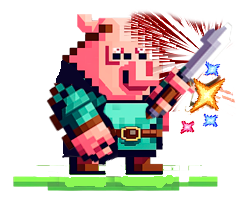
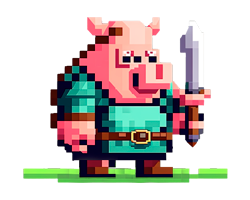
Update some battle stuff and add README

diff --git a/static/js/script_battle.js b/static/js/script_battle.js
@@ -177,7 +177,7 @@ window.addEventListener('load', function(){
             document.getElementById("swing").style.display = 'none';
             document.getElementById("pig_swing").style.display = 'none';
         }
-        attack() {
+        attack() {  // STR based attack
             // Determine players max possible damage output
             var damageDealt = this.strength * 10;
             let plusOrMinus = Math.random();
@@ -196,7 +196,7 @@ window.addEventListener('load', function(){
         
         }
         
-        stab_attack() {
+        stab_attack() { // DEX based attack
             // Determine players max possible damage output
             var damageDealt = this.dex * 10;
             let plusOrMinus = Math.random();
@@ -204,10 +204,10 @@ window.addEventListener('load', function(){
                 damageDealt = damageDealt * 1.1;
             } else if (plusOrMinus < 0.5 && plusOrMinus > 0.1) {
                 damageDealt = damageDealt * 0.9;
-            } else if (plusOrMinus <= 0.1) {
+            } else if (plusOrMinus <= (0.1 + 0.02 * (this.dex - 3))) {
                 damageDealt = damageDealt * 2;
                 critChecker = true;
-            } else if (plusOrMinus > 0.1 && plusOrMinus <= 0.2) {
+            } else if (plusOrMinus > (0.1 + 0.02 * (this.dex - 3)) && plusOrMinus <= 0.2) {
                 damageDealt = 0;
                 missChecker = true;
             }

diff --git a/static/css/main.css b/static/css/main.css
@@ -76,7 +76,7 @@ body{
     border: 5px solid white;
 }
 
-#playerImg, #backgroundImg, #enemyImg, #midgroundImg, #enemyDeadImg, #attkBtn, #pTurnImg, #eTurnImg, #winImg, #fight {
+#playerImg, #backgroundImg, #enemyImg, #midgroundImg, #enemyDeadImg, #attkBtn, #pTurnImg, #eTurnImg, #winImg, #fight, #pig_swing, #pig_stab, #pig_dodge, #swing {
     display: none;
 }
 

diff --git a/README.md b/README.md
@@ -1,0 +1,38 @@
+# CS4483 Game Demo
+Farmed and Dangerous: You're a pig, your goal is to kill stuff and get stronger.
+## Running the game
+This is a web-based game, so there's no single executable file to run. The game should should be available to play at http://0042069.xyz.  
+- If the site doesn't load, make sure you're using **HTTP and not HTTPS!** I didn't want to go through the hassle of setting up a certificate for a site that would be used for like a week lol
+
+If the site is down, or if you just want to host it locally, the instructions for setting up the server are as follows:
+1. Download and install Node.js (a JavaScript runtime environment) from https://nodejs.org/en. If you're on Linux you can likely also install it using your package manager.
+2. Open a terminal or command prompt (Not PowerShell, sometimes that acts weird due to script permissions) in the same folder as this README.
+3. Run `npm install` to install the necessary packages for the server to run.
+4. Run `node server/server.js` to start the server.
+5. Access the game at `http://localhost:5000`
+
+If these instructions seem complicated for someone who just wants to play a game, it's because setting up the server is something that a regular player will never have to do.
+## Playing the game
+- Use the navigation bar at the top of the page to explore various areas:
+	- Go to the Watchtower to fight enemies and earn money.
+	- Go to the Armory and the Pig Pen to spend money to upgrade your abilities.
+	- Go to the Grain Silo to heal after a fight.
+	- [NYI] Go to the Workshop to purchase items to use in battle.
+	- [NYI] Go to the Stable to check your inventory.
+- At the Watchtower, use the arrow keys to move left and right. Running into an enemy will initiate a battle.
+	- On your turn, use either the Slash or Stab attack by clicking one of the buttons on the left.
+	- After attacking, click the Enemy Turn button to see what the enemy does.
+	- If you kill the enemy, you get some money. If you die, you return to the main screen and lose half of your money.
+## Features
+- Upgradeable player stats - spend money to upgrade your strength, defense, dexterity, and max health
+	- Strength affects slash attack damage
+	- Dexterity affects stab attack damage, hit chance, and dodge chance
+- Multiple attack types:
+	- Slash: damage depends on strength, higher damage but more likely to miss
+	- Stab: damage depends on dexterity, lower damage but better accuracy
+- Multiple upgrade shops
+	- Armory: upgrade strength and defense
+	- Pig pen: upgrade health and dexterity
+	- Grain silo: spend money to heal
+- Persistent storage between screens - sounds lame but was actually pretty hard to get working in a multi-page browser-based game without needing a database
+	- This is why our game needs a server instead of being able to just open an HTML file - local storage in the browser doesn't work when not accessing an actual website
